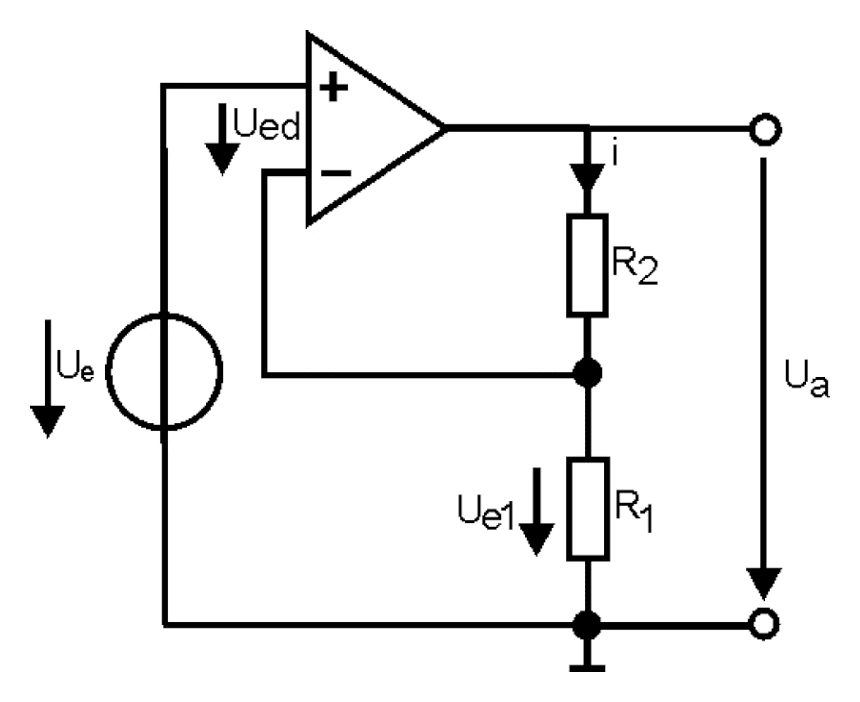
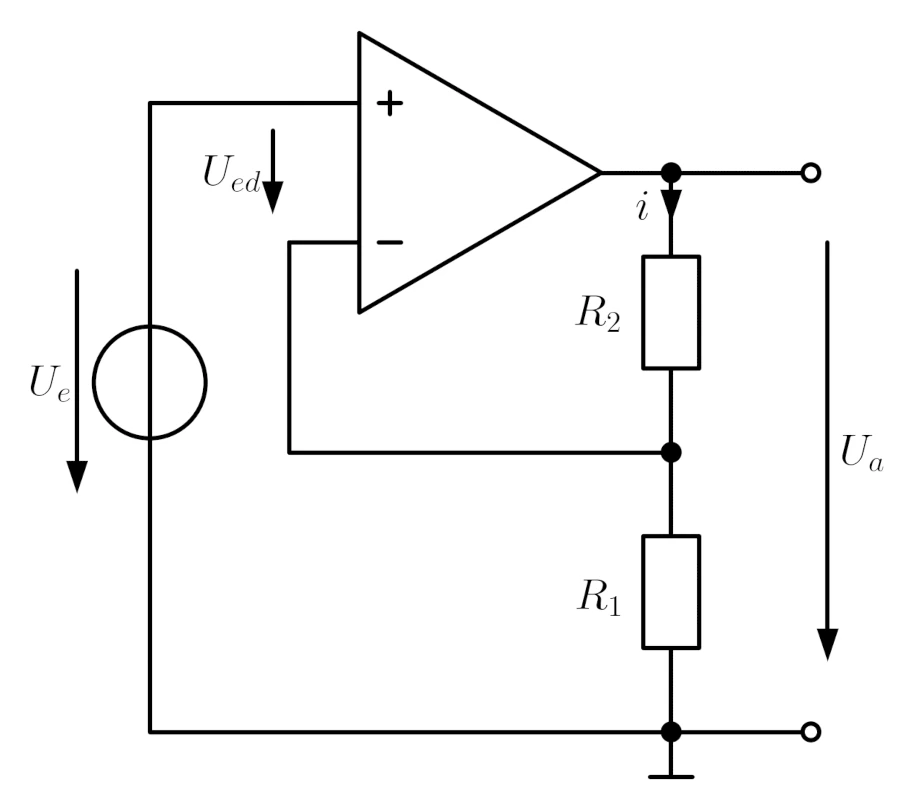
mi added different drawings + schemdraw

Changed region(s): [[0.0302, 0.0299, 0.9674, 0.9872], [0.4837, 0.2692, 0.5744, 0.3291], [0.4535, 0.2094, 0.4837, 0.2393]]

diff --git a/assets/documents/schaltung-bjt-herleitung-2.py b/assets/documents/schaltung-bjt-herleitung-2.py
@@ -1,0 +1,56 @@
+###### set Computer Modern as font ######
+import matplotlib
+matplotlib.rcParams['font.family'] = 'serif'
+matplotlib.rcParams['mathtext.fontset'] = 'cm'
+import schemdraw
+import schemdraw.elements as elm
+
+###### custom elements import ######
+import sys
+import os
+current_dir = os.path.dirname(os.path.abspath(__file__))
+custom_code_path = os.path.abspath(os.path.join(current_dir, '..', 'storages'))
+sys.path.append(custom_code_path)
+from customPyCode import *
+from customPyCode import customSchemdrawElements as celm
+
+###### style settings ######
+schemdraw.config(lblofst=0.2, bgcolor='white', lw=1.5)
+elm.CurrentLabelInline.defaults['headwidth'] = 0.2
+elm.style(elm.STYLE_IEC)
+
+factor=0.6
+
+with schemdraw.Drawing(show=True) as d:
+    d.config(unit=2.5)
+    elm.Line().left(d.unit*0.3).dot().label(r"$B$",loc="left").hold()
+    Isb = celm.EUSourceI().down().label(r"$\bar{i}^2_b$")
+    elm.Line().left(d.unit*0.3).dot().label(r"$E$",loc="left").hold()
+
+    elm.Line().right(d.unit*factor)
+    Rp = elm.Resistor().up().label(r"$r_\pi$")
+    
+    elm.Line().left(d.unit*factor).hold()
+    elm.Line().right(d.unit*factor)
+    C = elm.Capacitor().down().label(r"$C_\pi$").label(r"$+$",loc="right").label(r"$-$",loc="left")
+    elm.CurrentLabel().at(C).label(r"$v_1$")
+    elm.Line().left(d.unit*factor).hold()
+    
+    elm.Line().right()
+    
+    I1 = celm.EUSourceI().up()
+    elm.CurrentLabelInline(direction="out").at(I1).label(r"$g_m v_1$")
+    elm.Line().right(d.unit*factor)
+    Ro = elm.Resistor().down().label(r"$r_o$").hold()
+    elm.Line().right(d.unit*factor).dot()
+    
+    Ic = celm.EUSourceI().down().label(r"$\bar{i}^2_c$").hold().label(r"$C$",loc="right")
+    elm.Line().right(d.unit*factor)
+    elm.CurrentLabelInline().label(r"$i_o$")
+    elm.Line().down()
+    elm.Line().left(d.unit*factor)
+    elm.Line().left(d.unit*factor)
+    elm.Line().left(d.unit*factor)
+    
+    
+#saveSchemdraw.saveSchematic(d, __file__)

diff --git a/assets/documents/schaltung-bjt-herleitung-1.py b/assets/documents/schaltung-bjt-herleitung-1.py
@@ -1,0 +1,51 @@
+###### set Computer Modern as font ######
+import matplotlib
+matplotlib.rcParams['font.family'] = 'serif'
+matplotlib.rcParams['mathtext.fontset'] = 'cm'
+import schemdraw
+import schemdraw.elements as elm
+
+###### custom elements import ######
+import sys
+import os
+current_dir = os.path.dirname(os.path.abspath(__file__))
+custom_code_path = os.path.abspath(os.path.join(current_dir, '..', 'storages'))
+sys.path.append(custom_code_path)
+from customPyCode import *
+from customPyCode import customSchemdrawElements as celm
+
+###### style settings ######
+schemdraw.config(lblofst=0.2, bgcolor='white', lw=1.5)
+elm.CurrentLabelInline.defaults['headwidth'] = 0.2
+elm.style(elm.STYLE_IEC)
+
+with schemdraw.Drawing(show=True) as d:
+    d.config(unit=2.5)
+    Vs = celm.EUSourceV().right().label(r"$\bar{v}^2_b$")
+    Rb = elm.Resistor().down().label(r"$r_\pi$")
+    elm.Line().left().dot()
+    elm.Line().up().dot().label(r"$E$", loc="left").label(r"$B$", loc="right")
+    
+    elm.Line().at(Vs.end).right()
+    C = elm.Capacitor().down().label(r"$C_\pi$").label(r"$+$", loc="right").label(r"$-$", loc="left")
+    elm.CurrentLabel().at(C).label(r"$v_1$")
+    elm.Line().left()
+    
+    elm.Line().at(C.end).right()
+    
+    Is = celm.EUSourceI().up()
+    elm.CurrentLabelInline('out').at(Is).label(r"$g_m v_1$")
+    
+    elm.Line().right()
+    Ro = elm.Resistor().down().label(r"$r_o$").hold()
+    elm.Line().right().dot()
+    Ic = celm.EUSourceI().down().label(r"$\bar{i}^2_c$").label(r"$C$", loc="right").hold()
+    
+    elm.Line().right()
+    elm.CurrentLabelInline().label(r"$i_o$")
+    elm.Line().down()
+    elm.Line().left()
+    elm.Line().left()
+    elm.Line().left()
+    
+saveSchemdraw.saveSchematic(d, __file__)

diff --git a/assets/documents/schaltung-elektrometer.py b/assets/documents/schaltung-elektrometer.py
@@ -1,0 +1,44 @@
+###### set Computer Modern as font ######
+import matplotlib
+matplotlib.rcParams['font.family'] = 'serif'
+matplotlib.rcParams['mathtext.fontset'] = 'cm'
+import schemdraw
+import schemdraw.elements as elm
+
+###### custom elements import ######
+import sys
+import os
+current_dir = os.path.dirname(os.path.abspath(__file__))
+custom_code_path = os.path.abspath(os.path.join(current_dir, '..', 'storages'))
+sys.path.append(custom_code_path)
+from customPyCode import *
+from customPyCode import customSchemdrawElements as celm
+
+###### style settings ######
+schemdraw.config(lblofst=0.2, bgcolor='white', lw=1.5)
+elm.CurrentLabelInline.defaults['headwidth'] = 0.2
+elm.style(elm.STYLE_IEC)   
+
+with schemdraw.Drawing(background='white', show=False) as d:
+    d.config(unit=2.5)
+    Opv = elm.Opamp(leads=True).flip()
+    Ued = elm.Gap().at(Opv.in2).to(Opv.in1)
+    elm.CurrentLabel(top=False, length=d.unit*.3).at(Ued).label('$U_{ed}$')
+
+    R2 = elm.Resistor().down().at(Opv.out).idot().dot().label('$R_2$')
+    elm.CurrentLabelInline(direction='in').at(R2).label('$i$')
+    R1 = elm.Resistor().down().dot().label('${R_1}$')
+    Gr = elm.Vss()
+    elm.Wire('-|').at(R2.end).to(Opv.in1)   
+    
+    elm.Line().left(d.unit*0.5).at(Opv.in2)
+    Ue = celm.EUSourceV().down(d.unit*2).reverse().label('$U_e$')
+    elm.CurrentLabel(top=False).at(Ue).reverse()
+    elm.Wire('|-').to(R1.end)
+    
+    Out1 = elm.Line().at(R2.start).right(d.unit*0.5).dot(open=True)
+    Out2 = elm.Line().at(R1.end).right(d.unit*0.5).dot(open=True)
+    Ua = elm.Gap().at(Out1.end).to(Out2.end)
+    elm.CurrentLabel(length=d.unit*1.5).at(Ua).label('$U_a$')
+
+saveSchemdraw.saveSchematic(d, __file__)

diff --git a/assets/documents/schaltung-elektrometer-weird.py b/assets/documents/schaltung-elektrometer-weird.py
@@ -1,0 +1,37 @@
+###### set Computer Modern as font ######
+import matplotlib
+matplotlib.rcParams['font.family'] = 'serif'
+matplotlib.rcParams['mathtext.fontset'] = 'cm'
+import schemdraw
+import schemdraw.elements as elm
+
+###### custom elements import ######
+import sys
+import os
+current_dir = os.path.dirname(os.path.abspath(__file__))
+custom_code_path = os.path.abspath(os.path.join(current_dir, '..', 'storages'))
+sys.path.append(custom_code_path)
+from customPyCode import *
+from customPyCode import customSchemdrawElements as celm
+
+###### style settings ######
+schemdraw.config(lblofst=0.2, bgcolor='white', lw=1.5)
+elm.CurrentLabelInline.defaults['headwidth'] = 0.2
+elm.style(elm.STYLE_IEC)
+
+with schemdraw.Drawing(background='white', show=False) as d:
+    d.config(unit=2)
+    Opv = elm.Opamp(leads=True,).flip()
+    elm.Line().at(Opv.in2).up()
+    R1 = elm.Resistor().left().label(r"$R_1$")
+    elm.Vss()
+    R2 = elm.Resistor().at(R1.start).right().label(r"$R_2$")
+    elm.Wire('-|').to(Opv.out)
+    Out = elm.Line().right(d.unit*0.5).dot(open=True).label(r"$u_a(t)$", loc="right")
+    Ue = celm.EUSourceV().at(Opv.in1).down().label(r"$u_e(t)$")
+    elm.Vss()
+    
+    elm.Arrow().at(Opv.vs).up(d.unit*.3).label(r'$10\mathrm{V}$', loc='bottom')
+    elm.Arrow().at(Opv.vd).down(d.unit*.3).label(r'$-10\mathrm{V}$', loc='bottom')
+
+saveSchemdraw.saveSchematic(d, __file__)

diff --git a/assets/storages/customPyCode/saveSchemdraw.py b/assets/storages/customPyCode/saveSchemdraw.py
@@ -1,0 +1,22 @@
+import subprocess
+import os
+
+def saveSchematic(element, originFile):
+    fileType = ".png"
+    path = os.path.dirname(originFile)
+    name = os.path.basename(originFile).replace(".py","")
+    element.save(name+fileType, dpi=300, transparent=False)
+    file = path+os.sep+name+fileType
+    
+    # Run GIMP with batch commands
+    gimpPath = r"C:\Program Files\GIMP 2\bin\gimp-console-2.10.exe"
+    script = (f"from gimpfu import *; \
+              image = pdb.gimp_file_load(\\\"{file.replace("\\","\\\\")}\\\", \\\"{file.replace("\\","\\\\")}\\\"); \
+              drawable = pdb.gimp_image_get_active_layer(image); \
+              pdb.python_fu_process_graphics(image, drawable, \\\"{path.replace("\\","\\\\")}\\\", \\\"{name.replace("\\","\\\\")}\\\"); \
+              pdb.gimp_quit(0);")
+    
+    command = f"\"{gimpPath}\" -i --batch-interpreter=python-fu-eval -b \"{script}\""
+    print(command)
+    subprocess.run(command, shell=True)
+    os.remove(name+fileType)

diff --git a/assets/storages/customPyCode/customSchemdrawElements.py b/assets/storages/customPyCode/customSchemdrawElements.py
@@ -1,0 +1,17 @@
+import schemdraw
+import schemdraw.elements as elm
+from schemdraw.segments import *
+
+class EUSourceV(elm.Source):
+    ''' EU Voltage source '''
+    def __init__(self, **kwargs):
+        super().__init__(**kwargs)
+        self.segments.append(Segment([(0, 0), 
+                                      (1, 0)]))    # line through
+        
+class EUSourceI(elm.Source):
+    ''' EU Current source '''
+    def __init__(self, **kwargs):
+        super().__init__(**kwargs)
+        self.segments.append(Segment([(0.5, -0.5), 
+                                      (0.5, 0.5)]))    # line cross

diff --git a/assets/storages/customPyCode/__init__.py b/assets/storages/customPyCode/__init__.py
@@ -1,0 +1,10 @@
+import os
+import glob
+
+# Automatically import all .py files in the current folder
+modules = glob.glob(os.path.join(os.path.dirname(__file__), "*.py"))
+__all__ = [os.path.basename(f)[:-3] for f in modules if f.endswith(".py") and not f.endswith("__init__.py")]
+
+# Import all files
+for module in __all__:
+    exec(f"from .{module} import *")

diff --git a/pages/wellenausbreitung.md b/pages/wellenausbreitung.md
@@ -12,6 +12,7 @@ alias:: wave propagation, wellenausbreitungs, wellenausbreitung lva, WA
 	- ![📚 Formelsammlung_7.Auflage.pdf](C:\Users\Matteo\Downloads\Wellenausbreitung (VU)\Unterlagen\Formelsammlung_7.Auflage.pdf)
 	- Übergang von Vakuum nach Glas
 	  background-color:: green
+	  collapsed:: true
 		- Variante 1) Eine zirkular polarisierte Welle mit einem Querschnitt von $A = \mathrm{3~mm^2}$ und einer Leistung von $P = \mathrm{10~mW}$ wird unter dem Brewster-Winkel auf eine Grenzﬂäche zwischen Vakuum ($n_1 = \mathrm{1}$) und Glas ($n_2 = \mathrm{1.6}$) eingestrahlt.
 		  background-color:: green
 		  ![img](../assets/Documents/WA_vakuum_glas_bsp.webp)
@@ -198,6 +199,7 @@ alias:: wave propagation, wellenausbreitungs, wellenausbreitung lva, WA
 			- ![📚 2024-11-20 19h04m_annotated.pdf](../assets/documents/2024-11-20 19h04m_annotated.pdf)
 	- Stehende Welle im verlustbehafteten Medium
 	  background-color:: green
+	  collapsed:: true
 		- Eine sich im [verlustbehafteten Medium](((6740c4fa-4d26-4310-b196-321b7391feb6))) (z.B.: trockener Erdboden) ausbreitende ebene Welle mit $f = \mathrm{20~MHz}$ wird von einer auf die Ausbreitungsrichtung senkrecht stehenden [metallischen Wand mit unendlicher Leitfähigkeit](((67405634-4634-4d0d-b586-6a52b1bb7c75))) reﬂektiert (siehe Abbildung). Die Amplitude der einfallenden Welle bei $z = 0$ beträgt $\mathrm{5~V/m}$.
 		  background-color:: green
 		  Hinweis: $\varepsilon_0 = \mathrm{8,854· 10^{−12}~As/Vm}$, $µ0 = \mathrm{4π · 10^{−7}~Vs/Am}$.
@@ -463,6 +465,8 @@ alias:: wave propagation, wellenausbreitungs, wellenausbreitung lva, WA
 			- ![📚 2024-11-21 18h45m_annotated.pdf](../assets/documents/2024-11-21 18h45m_annotated.pdf)
 	- Rechteckhohlleiter
 	  background-color:: green
+	  collapsed:: true
+		- TODO this
 		- Variante 1) Untersuchen Sie die Ausbreitung von $\mathrm{TE}_{m,n}$ Wellen in $z$ Richtung im skizzierten Rechteckhohlleiter.
 		  background-color:: green
 		  collapsed:: true
@@ -486,6 +490,7 @@ alias:: wave propagation, wellenausbreitungs, wellenausbreitung lva, WA
 		  background-color:: green
 	- Hohlraumresonator
 	  background-color:: green
+	  collapsed:: true
 		- Variante 1) Berechnen Sie den Grundmodus $\mathrm{TE_{101}}$ eines luftgefüllten ($\varepsilon_r = 1$) Hohlraumresonators (Abmessungen: $a = 4\mathrm{cm}$, $b = 2\mathrm{cm}$, $c = 4\mathrm{cm}$) mit $\mathbb{R}_M = 20\mathrm{m\Omega}$.
 		  background-color:: green
 		  ![img](../assets/documents/Wa_hohlraumresonator_bsp_1.webp)
@@ -753,6 +758,7 @@ alias:: wave propagation, wellenausbreitungs, wellenausbreitung lva, WA
 			- ![📚 2024-12-01 16h11m_annotated.pdf](../assets/documents/2024-12-01 16h11m_annotated.pdf)
 	- [[Koaxialkabel]]
 	  background-color:: green
+	  collapsed:: true
 		- Variante 1)
 		  background-color:: green
 		  ![img](../assets/documents/WA_koaxialkabel_bsp_1.webp)
@@ -1025,8 +1031,10 @@ alias:: wave propagation, wellenausbreitungs, wellenausbreitung lva, WA
 			- d) Berechnen Sie mittels der Power-Loss-Method den Dämpfungskoefﬁzienten des abgebildeten Rechteckhohlleiters mit den Abmessungen $a = 22.86 \mathrm{mm}$ und $b = 10.16 \mathrm{mm}$ bei $10 \mathrm{GHz}$ (Grundmodus $\mathrm{TE}_{10}$) in $\mathrm{dB/m}$. Erklären Sie dabei Ihre Vorgehensweise. Das Metall sei durch $\sigma = 5.7 \cdot 10^7 \mathrm{S/m}$ charakterisiert. Bei der gesuchten Ausbreitung in $z$-Richtung lauten die Feldkomponenten: $\\ E_x = 0 \\ E_{y}=-\frac{j\omega\mu}{\pi}a A \sin\left(\frac{\pi}{a}x\right)e^{-j k_{z}z} \\ E_z=0 \\ H_{x}=\frac{j k_{z}}{\pi}a A \sin\left(\frac{\pi}{a}x\right)e^{-j k_{z}z} \\ H_y = 0 \\ H_{z} = A \cos \left( \frac{\pi}{a}x \right) e^{-j k_{z}z}$
 			  background-color:: green
 				- TODO this
-	- Dielektrische Platte #wip
+	- Dielektrische Platte
 	  background-color:: green
+	  collapsed:: true
+		- TODO this
 		- Berechnen Sie die Ausbreitungseigenschaften der $\mathrm{H}_{10}$-ähnlichen Grundwelle (siehe Rechteckhohlleiter), die von einer in $y$- und $z$-Richtung unbegrenzten und in $x$-Richtung $2d$ dicken dielektrischen Platte (Raum 1) geführt wird (Raum 2 ist Luft)!
 		  background-color:: green
 		  ![img](../assets/documents/WA_dielektrische_platte_bsp_1.webp)
@@ -1040,6 +1048,7 @@ alias:: wave propagation, wellenausbreitungs, wellenausbreitung lva, WA
 			  background-color:: green
 	- Dielektrischer Wellenleiter
 	  background-color:: green
+	  collapsed:: true
 		- Gegeben sei ein dielektrischer Wellenleiter der Dicke $d = 1\mathrm{cm}$ mit einer relativen Permittivität von $\varepsilon_2 = 2.26$. Oberhalb des Wellenleiters beﬁnde sich Luft ($\varepsilon_3 = 1$), unterhalb ein idealer Leiter. Es breite sich eine Welle in $z$-Richtung aus!
 		  background-color:: green
 		  ![img](../assets/documents/WA_dielektrischer_wellenleiter_bsp_1.webp)

diff --git a/pages/schaltungstechnik.md b/pages/schaltungstechnik.md
@@ -308,7 +308,7 @@ alias:: ST, schaltungstechnik lva
 	  deck:: Uni::Schaltungstechnik_Theorie
 	  tags:: flashcard, bidirectional
 	  collapsed:: true
-	  ![img](../assets/documents/schaltung-elektrometer.webp)
+	  ![img](../assets/documents/schaltung-elektrometer.svg)
 		- elektrometer verstärker
 		- beweis, dass das, das selbe ist
 			- [📚 2024-06-25 17h17m.xopp](../assets/documents/2024-06-25 17h17m.xopp)
